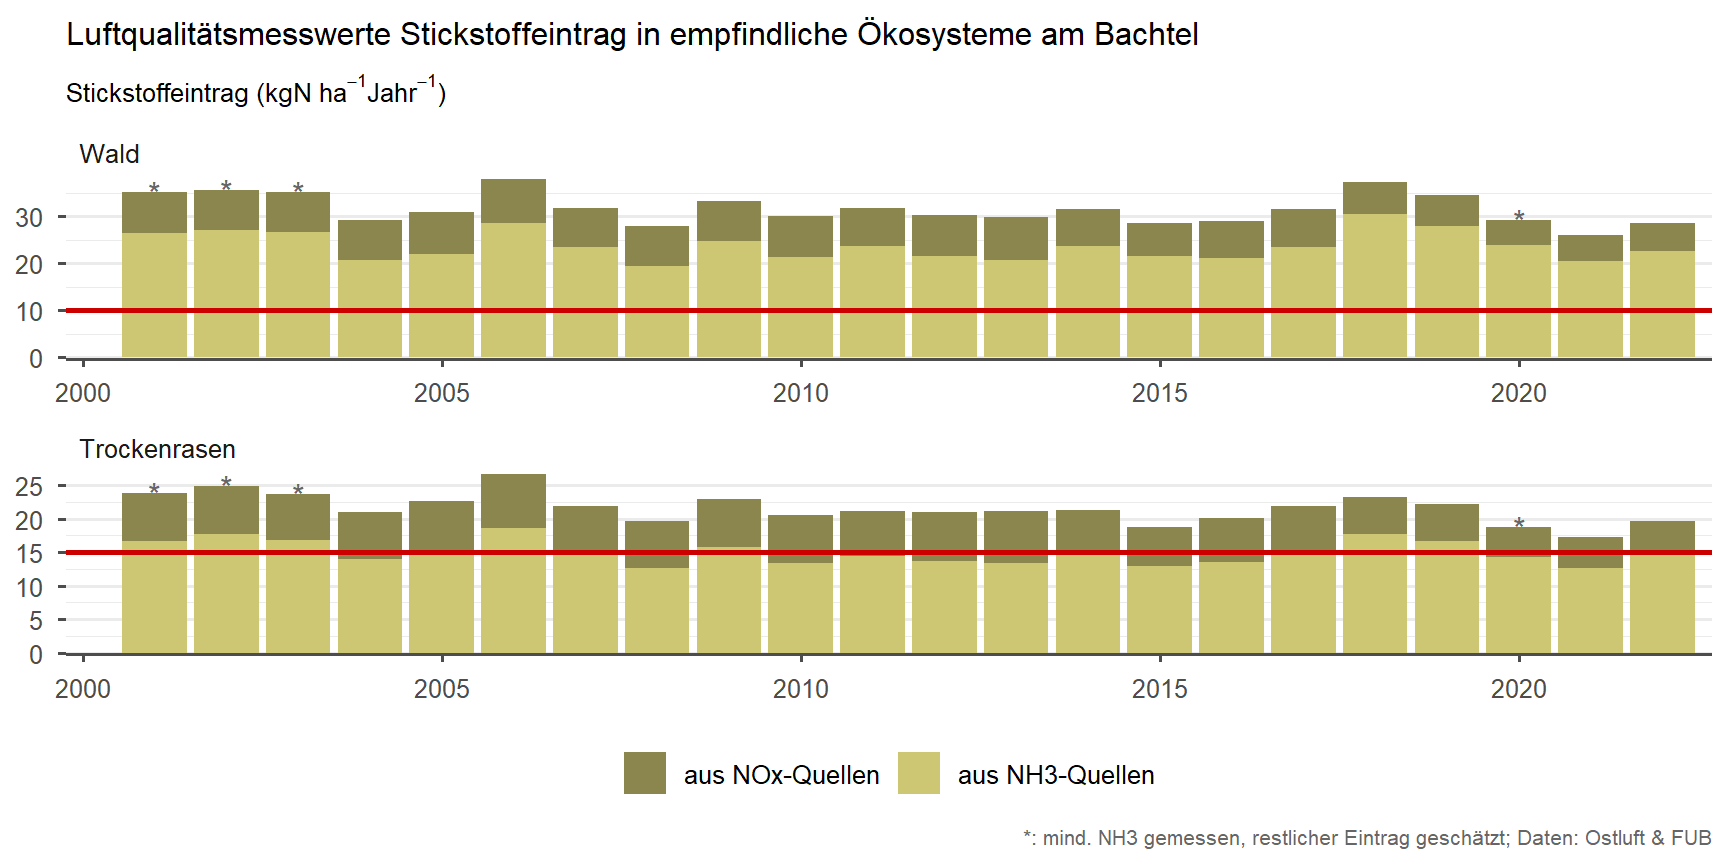
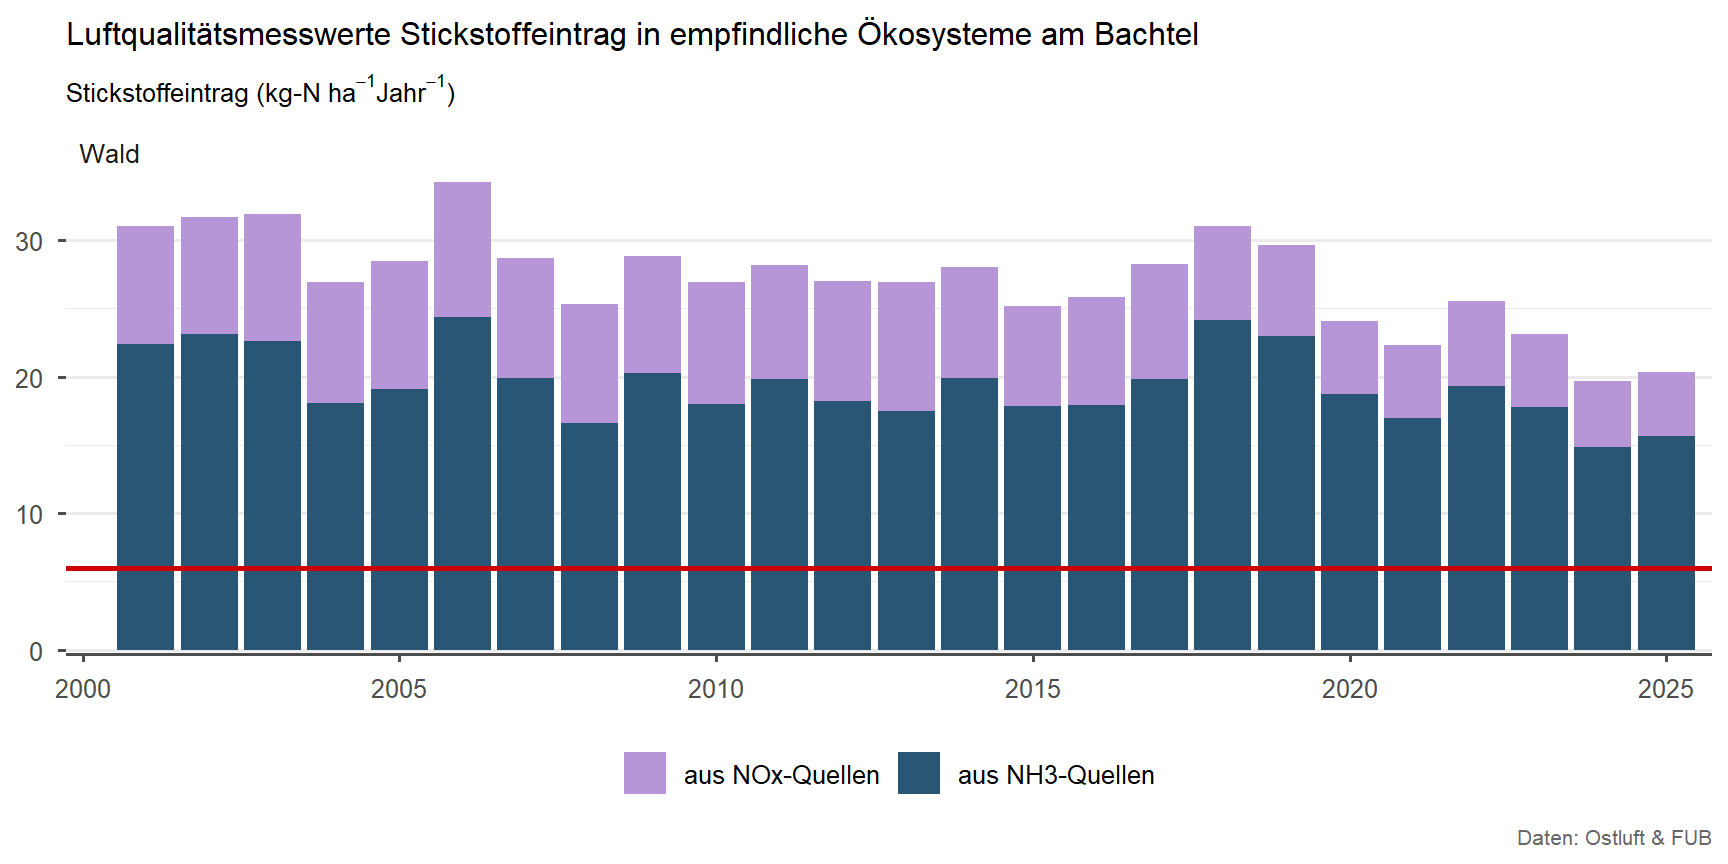
incl plots & docs ndep

diff --git a/docs/Luftqualität.html b/docs/Luftqualität.html
@@ -310,13 +310,27 @@ Figure&nbsp;8
 </div>
 <div class="cell page-columns page-full">
 <div class="cell-output-display page-columns page-full">
+<div id="fig-ts-ndep-all" class="quarto-float quarto-figure quarto-figure-center anchored page-columns page-full" width="864">
+<figure class="quarto-float quarto-float-fig figure page-columns page-full">
+<div aria-describedby="fig-ts-ndep-all-caption-0ceaefa1-69ba-4598-a22c-09a6ac19f8ca">
+<a href="Luftqualität_files/figure-html/fig-ts-ndep-all-1.png" class="lightbox" data-gallery="quarto-lightbox-gallery-9" title="Figure&nbsp;9: "><img src="Luftqualität_files/figure-html/fig-ts-ndep-all-1.png" id="fig-ts-ndep-all" class="img-fluid figure-img" width="864"></a>
+</div>
+<figcaption class="quarto-float-caption-margin quarto-float-caption quarto-float-fig quarto-uncaptioned margin-caption" id="fig-ts-ndep-all-caption-0ceaefa1-69ba-4598-a22c-09a6ac19f8ca">
+Figure&nbsp;9
+</figcaption>
+</figure>
+</div>
+</div>
+</div>
+<div class="cell page-columns page-full">
+<div class="cell-output-display page-columns page-full">
 <div id="fig-ts-ndep-all-cln" class="quarto-float quarto-figure quarto-figure-center anchored page-columns page-full" width="864">
 <figure class="quarto-float quarto-float-fig figure page-columns page-full">
 <div aria-describedby="fig-ts-ndep-all-cln-caption-0ceaefa1-69ba-4598-a22c-09a6ac19f8ca">
-<a href="Luftqualität_files/figure-html/fig-ts-ndep-all-cln-1.png" class="lightbox" data-gallery="quarto-lightbox-gallery-9" title="Figure&nbsp;9: "><img src="Luftqualität_files/figure-html/fig-ts-ndep-all-cln-1.png" id="fig-ts-ndep-all-cln" class="img-fluid figure-img" width="864"></a>
+<a href="Luftqualität_files/figure-html/fig-ts-ndep-all-cln-1.png" class="lightbox" data-gallery="quarto-lightbox-gallery-10" title="Figure&nbsp;10: "><img src="Luftqualität_files/figure-html/fig-ts-ndep-all-cln-1.png" id="fig-ts-ndep-all-cln" class="img-fluid figure-img" width="864"></a>
 </div>
 <figcaption class="quarto-float-caption-margin quarto-float-caption quarto-float-fig quarto-uncaptioned margin-caption" id="fig-ts-ndep-all-cln-caption-0ceaefa1-69ba-4598-a22c-09a6ac19f8ca">
-Figure&nbsp;9
+Figure&nbsp;10
 </figcaption>
 </figure>
 </div>

diff --git a/docs/about.html b/docs/about.html
@@ -172,7 +172,7 @@ ul.task-list li input[type="checkbox"] {
     <div>
     <div class="quarto-title-meta-heading">Published</div>
     <div class="quarto-title-meta-contents">
-      <p class="date">09. April 2026</p>
+      <p class="date">13. May 2026</p>
     </div>
   </div>
   
